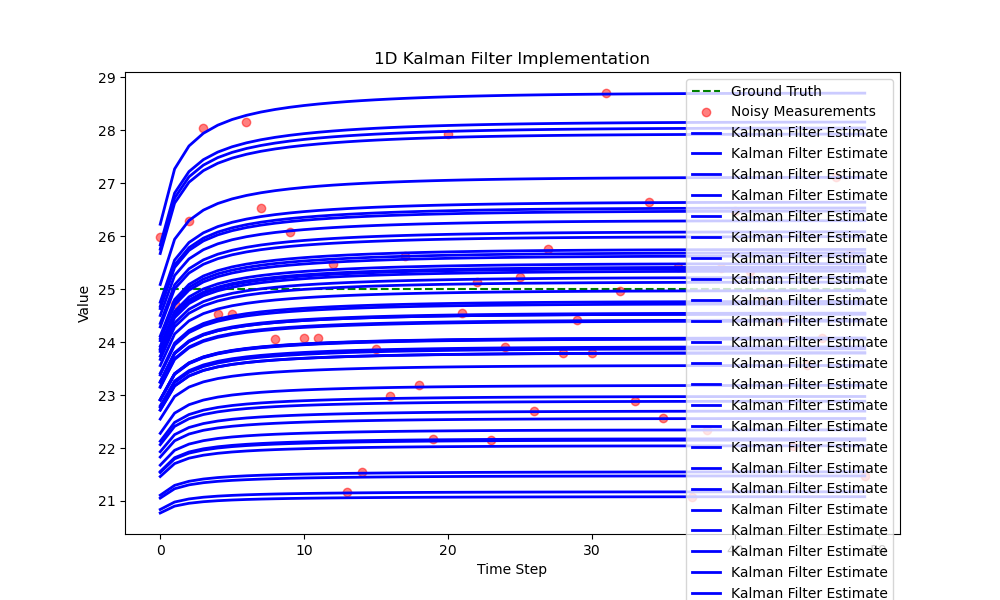
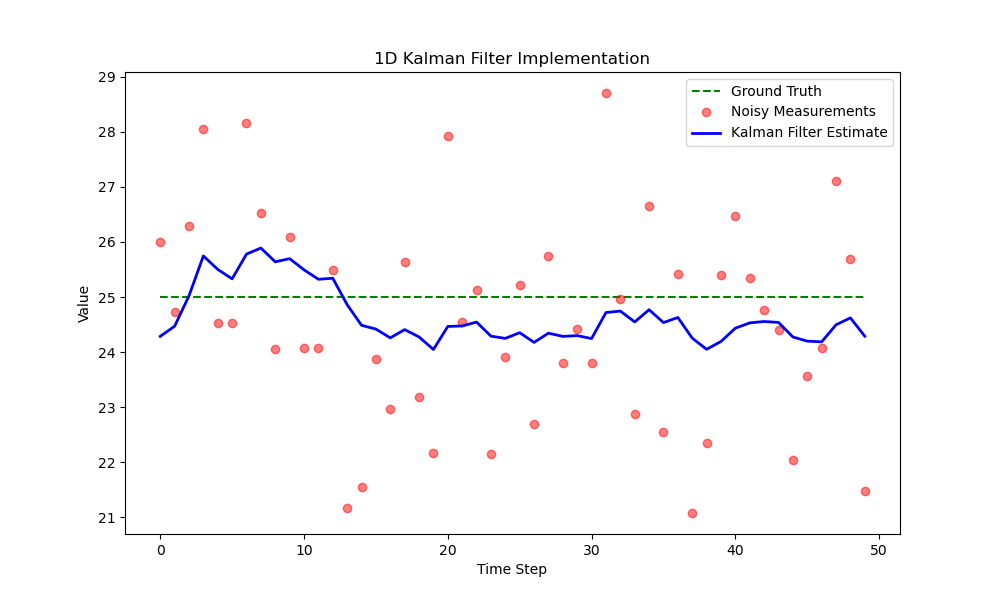
Fixed Mesurements on Kalamn Gain assignment

diff --git a/01_Sensors_and_Perception/Assignments_and_Code/kalman_1d.py b/01_Sensors_and_Perception/Assignments_and_Code/kalman_1d.py
@@ -33,7 +33,7 @@ for z in measurements:
     # TODO: Calculate Kalman Gain (K)
     kalman_gain = prediction_variance / (prediction_variance + sensor_variance)
     # TODO: Calculate current_estimate using the update equation
-    current_estimate = prediction + kalman_gain * (measurements - prediction)
+    current_estimate = prediction + kalman_gain * (z - prediction)
     # TODO: Calculate current_variance using the covariance update equation
     current_variance = (1 - kalman_gain) * prediction_variance
     
